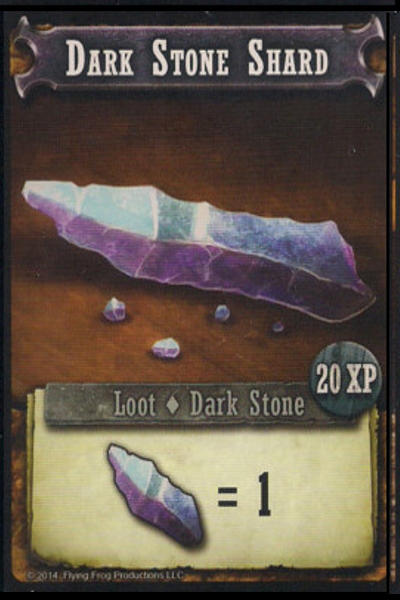
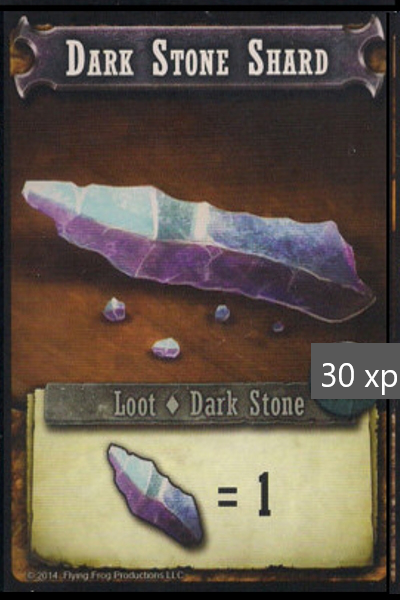
Update the sob loot cards with 30 xp for the lesser rewards

Changed region(s): [[0.78, 0.57, 1.0, 0.69]]

diff --git a/src/components/About.vue b/src/components/About.vue
@@ -4,7 +4,7 @@
       <v-layout align-center column>
         <v-flex text-xs-center>
           <h1>Board Game Buddy</h1>
-          <v-card color="green accent-3">{{appVersion}}</v-card>
+          <v-card color="green">{{appVersion}}</v-card>
         </v-flex>
         <v-btn color="red" dark v-if="!warning" @click="warning = true">Clear all Saved Data</v-btn>
         <v-alert type="warning" dismissible v-model="warning">
@@ -13,8 +13,6 @@
         </v-alert>
         <v-flex sm6 md6>
           <list-randomizer/>
-        </v-flex>
-        <v-flex sm6 md6>
           <list-randomizer/>
         </v-flex>
       </v-layout>
@@ -35,7 +33,7 @@
     },
     name: 'about',
     mounted() {
-      this.appVersion = '0.29.1Bag';
+      this.appVersion = '0.30.0 SoB rev1';
     },
     data: () => ({
       appVersion: '0.0.0',
